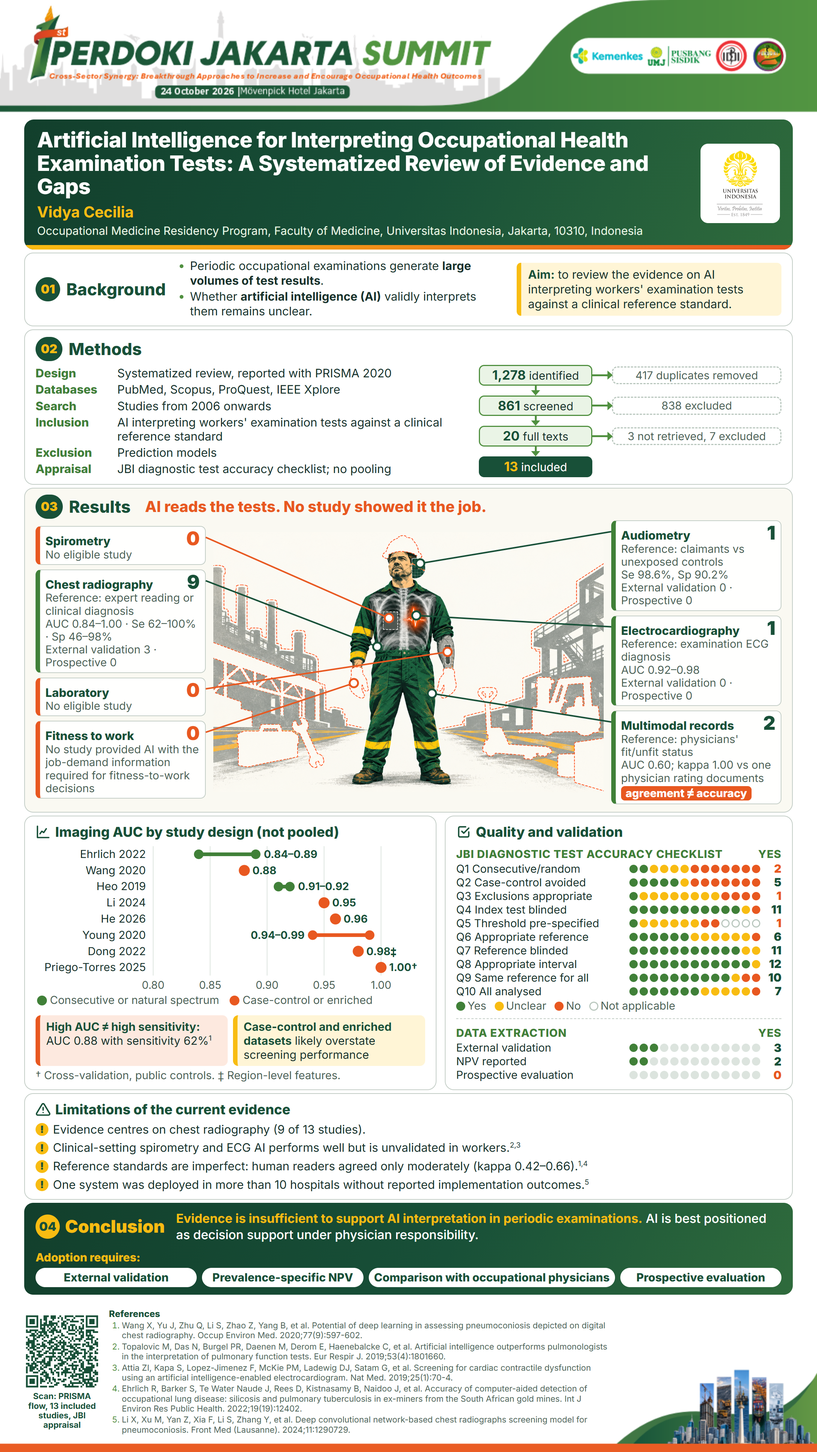
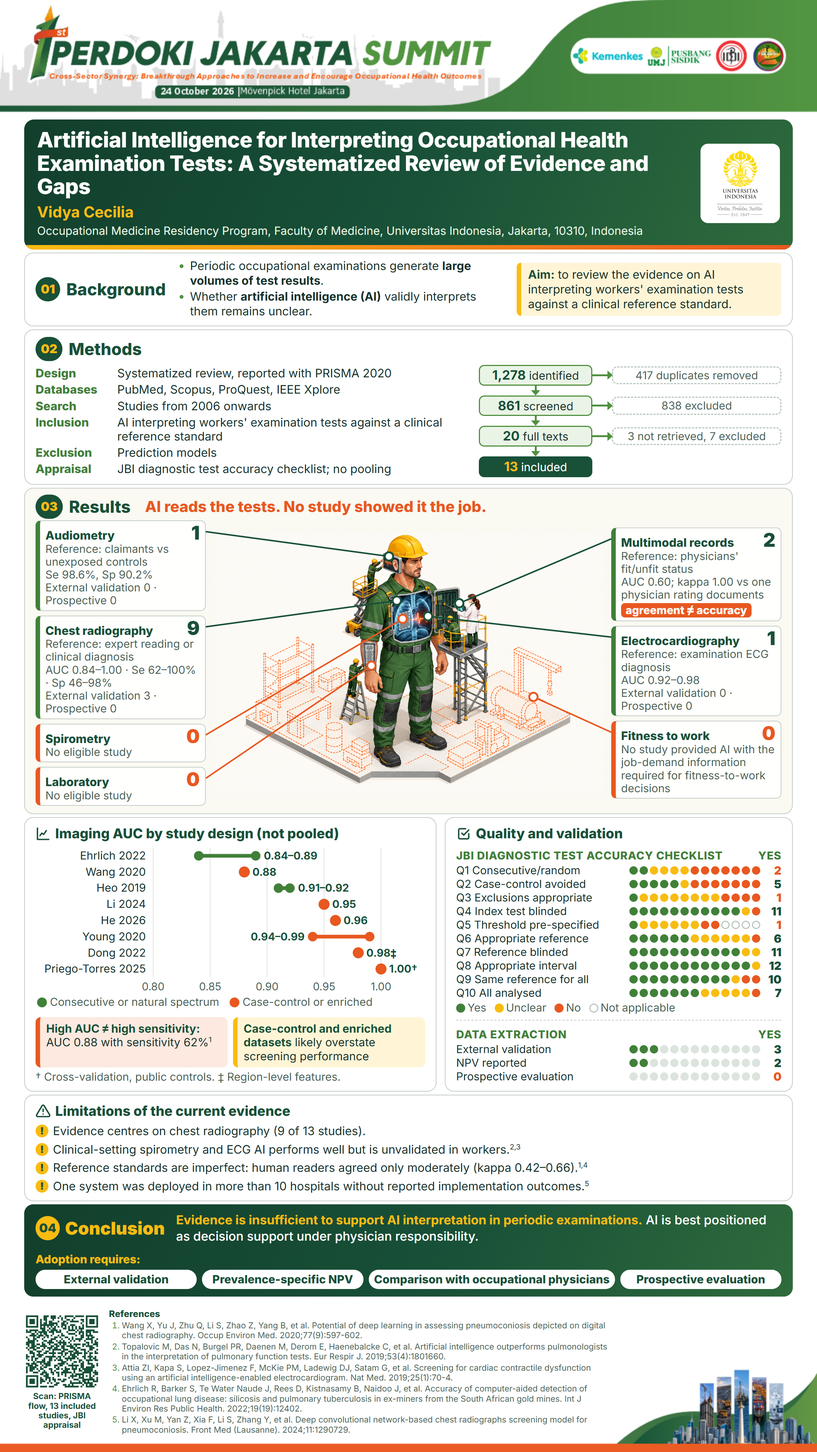
Redo alternative poster 1 with an isometric illustration and add poster 3 (museum exhibit)

Changed region(s): [[0.031, 0.3438, 0.9616, 0.9062], [0.9306, 0.3438, 0.9616, 0.375], [0.4653, 0.6562, 0.4963, 0.6875]]

diff --git a/Poster Jkt Summit eposter/poster_alt3.html b/Poster Jkt Summit eposter/poster_alt3.html
@@ -1,0 +1,353 @@
+<!doctype html>
+<html lang="en">
+<head>
+<meta charset="utf-8">
+<title>AI MCU E-Poster</title>
+<link href="https://fonts.googleapis.com/css2?family=Inter:wght@400;500;600;700;800;900&display=swap" rel="stylesheet">
+<style>
+  /* Canvas 2160 x 3840 px (9:16). 22 pt = 29.3 px; nothing below 29 px. */
+  :root{
+    --g900:#185038; --g700:#2F6B3C; --g600:#408038; --g500:#509040; --mint:#EAF4E6; --mint2:#D5EBCF;
+    --or:#E85820; --or-l:#FDE9DF; --ye:#F8BC12; --ye-l:#FFF5D6; --ink:#17302A; --muted:#4A5F55; --grey:#DCE4DE; --line:#C4CEC7;
+  }
+  *{box-sizing:border-box;margin:0;padding:0}
+  html,body{width:2160px;height:3840px}
+  body{font-family:Inter,Arial,sans-serif;color:var(--ink);font-size:32px;line-height:1.3}
+  .poster{width:2160px;height:3840px;position:relative;overflow:hidden;background:#fff url("assets/template.png") 0 0/2160px 3840px no-repeat}
+  sup{font-size:.62em;line-height:0}
+  b{font-weight:700}
+
+  .content{position:absolute;left:64px;right:64px;top:316px;height:3292px;display:flex;flex-direction:column;gap:8px}
+  .content>*{flex-shrink:0}
+
+  /* title */
+  .title{background:linear-gradient(115deg,#123F2C 0%,#185038 50%,#2F6B3C 100%);border-radius:26px;padding:24px 34px 30px;display:grid;grid-template-columns:1fr 210px;gap:30px;align-items:center;color:#fff;position:relative;overflow:hidden}
+  .title::after{content:"";position:absolute;left:0;right:0;bottom:0;height:12px;background:linear-gradient(90deg,var(--ye),var(--or))}
+  h1{font-size:56px;line-height:1.1;font-weight:800;letter-spacing:-.5px}
+  .authors{margin-top:10px;font-size:40px;font-weight:700;color:var(--ye)}
+  .affil{margin-top:4px;font-size:30px;color:#E6F3E2}
+  .logo-box{background:#fff;border-radius:20px;height:210px;display:flex;align-items:center;justify-content:center;padding:18px}
+  .logo-box img{max-width:100%;max-height:100%}
+
+  /* stats */
+  .stats{display:grid;grid-template-columns:repeat(4,1fr);gap:20px}
+  .stat{background:#fff;border-radius:22px;padding:12px 22px;border:2px solid var(--line);border-left:14px solid var(--g600);display:flex;align-items:center;gap:18px}
+  .stat .n{flex:none;font-size:80px;font-weight:900;color:var(--g900);line-height:1}
+  .stat .n small{font-size:.5em;font-weight:800;color:var(--g600)}
+  .stat .l{font-size:30px;color:var(--muted);line-height:1.15}
+  .stat.zero{border-left-color:var(--or)} .stat.zero .n{color:var(--or)}
+  .stat.ye{border-left-color:var(--ye)}
+
+  /* cards */
+  .card{background:#fff;border-radius:24px;padding:18px 28px;border:2px solid var(--line)}
+  .h{display:flex;align-items:center;gap:16px;font-size:44px;font-weight:800;color:var(--g900);margin-bottom:10px;line-height:1.05}
+  .h .no{display:inline-flex;align-items:center;justify-content:center;min-width:64px;height:64px;border-radius:32px;background:var(--g900);color:var(--ye);font-size:32px;font-weight:900;padding:0 14px}
+  .h2{font-size:36px;font-weight:800;color:var(--g900);margin-bottom:10px;display:flex;align-items:center;gap:12px}
+  .h2 svg{width:40px;height:40px;flex:none}
+  ul{padding-left:36px} li{margin-bottom:4px} li::marker{color:var(--g500)}
+  .row{display:grid;gap:22px}
+
+  /* background */
+  .bg{grid-template-columns:1fr 700px}
+  .aim{margin-top:10px;background:var(--ye-l);border-left:12px solid var(--ye);border-radius:12px;padding:12px 18px}
+  .aim b{color:var(--g900)}
+  .hero{border-radius:24px;overflow:hidden;background:#fff;border:2px solid var(--line);position:relative;min-height:340px}
+  .hero img{position:absolute;inset:0;width:100%;height:100%;object-fit:contain;display:block}
+
+  /* methods */
+  .meth{display:grid;grid-template-columns:1fr 800px;gap:30px;align-items:center}
+  .kv{display:grid;grid-template-columns:200px 1fr;gap:6px 16px;font-size:31px;line-height:1.2}
+  .kv dt{font-weight:800;color:var(--g600)}
+  /* PRISMA: main boxes in column 1, horizontal arrows in column 2, side boxes in column 3 */
+  .prisma{display:grid;grid-template-columns:300px 52px 448px;align-items:center;justify-content:center;font-size:30px}
+  .pb{grid-column:1;background:var(--mint);border:3px solid var(--g500);border-radius:14px;padding:4px 12px;text-align:center;line-height:1.2}
+  .pb b{font-size:34px;color:var(--g900)}
+  .pb.inc{background:var(--g900);border-color:var(--g900);color:#fff}.pb.inc b{color:var(--ye)}
+  .px{grid-column:3;background:#fff;border:3px dashed #B9C7BE;border-radius:14px;padding:4px 8px;font-size:29px;color:var(--muted);line-height:1.15;text-align:center}
+  .ha{grid-column:2;height:5px;background:var(--g500);position:relative;margin-right:12px}
+  .ha::after{content:"";position:absolute;right:-14px;top:-9.5px;border:12px solid transparent;border-left:14px solid var(--g500);border-right:0}
+  .va{grid-column:1;justify-self:center;width:5px;height:12px;background:var(--g500);position:relative;margin-bottom:14px}
+  .va::after{content:"";position:absolute;left:-9.5px;bottom:-14px;border:12px solid transparent;border-top:14px solid var(--g500);border-bottom:0}
+
+  /* gap map */
+  .gm{width:100%;table-layout:fixed;border-collapse:separate;border-spacing:0 6px;font-size:30px;line-height:1.2}
+  .gm th{font-size:29px;font-weight:800;color:#fff;background:var(--g900);padding:8px 10px;text-align:left}
+  .gm th:first-child{border-radius:12px 0 0 12px}.gm th:last-child{border-radius:0 12px 12px 0}
+  .gm td{background:var(--mint);padding:6px 10px;vertical-align:middle}
+  .gm td:first-child{border-radius:12px 0 0 12px;font-weight:700;color:var(--g900)}
+  .gm td:last-child{border-radius:0 12px 12px 0}
+  .gm .t{display:flex;align-items:center;gap:12px}
+  .gm .t svg{width:40px;height:40px;flex:none}
+  .gm .c{text-align:center;font-weight:800;font-size:36px;color:var(--g900)}
+  .gm .z{color:var(--or)}
+  .gm tr.gap td{background:var(--or-l)}
+  .gm tr.gap td.msg{color:#9A3A12;font-weight:600;font-style:italic}
+  .tag{display:inline-block;white-space:nowrap;background:var(--or);color:#fff;font-size:29px;font-weight:800;border-radius:10px;padding:2px 12px;margin-left:6px}
+
+  /* results row 2 */
+  .r2{grid-template-columns:1090px 1fr}
+  .callouts{display:grid;grid-template-columns:1fr 1fr;gap:14px;margin-top:8px}
+  .co{border-radius:14px;padding:12px 16px;font-size:30px;line-height:1.22}
+  .co.or{background:var(--or-l);border-left:12px solid var(--or)}
+  .co.ye{background:var(--ye-l);border-left:12px solid var(--ye)}
+  .co b{color:var(--g900)}
+  .legend{display:flex;gap:28px;font-size:29px;color:var(--muted);margin:4px 0 0 4px}
+  .legend i{display:inline-block;width:26px;height:26px;border-radius:13px;vertical-align:-4px;margin-right:8px}
+
+  .r2>.card{display:flex;flex-direction:column}
+  .r2 .callouts{margin-top:auto}
+  .dm{justify-content:space-between}
+  .dm .ext{margin-top:14px;padding-top:12px;border-top:2px dashed var(--line)}
+  .dm .grp{font-size:29px;font-weight:800;color:var(--g600);text-transform:uppercase;letter-spacing:1px;margin:6px 0 4px;display:flex;justify-content:space-between}
+  .dr{display:grid;grid-template-columns:1fr 346px 44px;align-items:center;gap:12px;margin-bottom:3px;font-size:29px;line-height:1.12}
+  .dots{display:grid;grid-template-columns:repeat(13,22px);gap:5px}
+  .dots span{width:22px;height:22px;border-radius:11px;background:var(--grey)}
+  .dots span.f,.dots span.y{background:var(--g600)} .dots span.o,.dots span.n{background:var(--or)}
+  .dots span.u{background:var(--ye)} .dots span.na{background:#fff;border:3px solid #B9C7BE}
+  .dr .v{font-weight:900;color:var(--g900);font-size:30px;line-height:1.1;text-align:right}
+  .dr .v.z{color:var(--or)}
+  .dm .note{font-size:29px;color:var(--muted);line-height:1.2}
+  .dm .key{display:flex;flex-wrap:wrap;gap:4px 22px;font-size:29px;color:var(--muted)}
+  .dm .key i{display:inline-block;width:24px;height:24px;border-radius:12px;vertical-align:-3px;margin-right:6px}
+
+  /* limitations */
+  .lim{display:flex;flex-direction:column;gap:10px;font-size:31px;line-height:1.25}
+  .lim div{display:grid;grid-template-columns:34px 1fr;gap:12px;align-items:center}
+  .lim div::before{content:"!";width:34px;height:34px;border-radius:17px;background:var(--ye);color:var(--g900);font-weight:900;font-size:26px;display:flex;align-items:center;justify-content:center}
+
+  /* conclusion */
+  .concl{background:linear-gradient(115deg,#123F2C 0%,#185038 55%,#2F6B3C 100%);color:#fff;border-radius:24px;padding:20px 30px;display:grid;grid-template-columns:auto 1fr;gap:20px 30px;align-items:center}
+  .concl .lab{font-size:46px;font-weight:900;color:var(--ye);line-height:1.05;display:flex;align-items:center;gap:14px}
+  .concl .lab .no{display:inline-flex;align-items:center;justify-content:center;width:64px;height:64px;border-radius:32px;background:var(--ye);color:var(--g900);font-size:32px}
+  .concl p{font-size:33px;line-height:1.3;font-weight:500}
+  .concl p b{color:var(--ye)}
+  .req{grid-column:1/-1;font-size:30px}
+  .req .k{font-weight:800;color:var(--ye);margin-bottom:8px}
+  .req .chips{display:flex;justify-content:space-between;gap:14px;flex-wrap:nowrap;white-space:nowrap}
+  .req span.c{flex:1;text-align:center;background:#fff;color:var(--g900);font-weight:800;border-radius:30px;padding:6px 14px}
+
+  /* references */
+  .refs{position:absolute;left:64px;top:3453px;width:1556px;height:350px;display:grid;grid-template-columns:200px 1fr;gap:24px;align-items:center}
+  .qrcol{display:flex;flex-direction:column;align-items:center;gap:6px}
+  .qrcap{font-size:22px;line-height:1.15;color:var(--g900);font-weight:700;text-align:center}
+  .qr{width:200px;height:200px;border:0;border-radius:14px;display:flex;align-items:center;justify-content:center;text-align:center;font-size:29px;color:var(--g600);font-weight:700;line-height:1.1;background:#fff}
+  .qr img{width:100%;height:100%}
+  .refs ol{font-size:22px;line-height:1.2;color:var(--muted);padding-left:34px}
+  .refs li{margin-bottom:3px;break-inside:avoid}
+  .refs .rh{font-size:24px;font-weight:800;color:var(--g900);margin-bottom:2px}
+
+  .bgalt{display:grid;grid-template-columns:auto 1fr 700px;gap:28px;align-items:center;padding:14px 28px}
+  .bgalt .h{margin:0}
+  .bgalt ul{font-size:31px;line-height:1.25}
+  .bgalt .aim{margin-top:0;font-size:31px;line-height:1.25}
+  .hero2{background:#FAF9F2;border:2px solid var(--line);border-radius:24px;padding:16px 28px 20px}
+  .hero2 .h{margin-bottom:4px}
+  .hero2 .kick{font-size:40px;font-weight:800;color:var(--or);margin-left:22px;line-height:1.1}
+  .hero2 .kick.solo{margin:0 0 8px 0}
+  .stage.grid{display:grid;align-items:center;gap:20px}
+  .stage.grid img{position:static;width:100%;height:auto}
+  .stage.grid .col{position:static;display:flex;flex-direction:column;justify-content:center;gap:12px}
+  .stage{position:relative}
+  .stage img{position:absolute;display:block}
+  .stage svg.lead{position:absolute;left:0;top:0;pointer-events:none;overflow:visible}
+  .stage .col{position:absolute;top:0;bottom:0;display:flex;flex-direction:column;justify-content:space-between}
+  .cl{position:relative;background:rgba(255,255,255,.95);border:2px solid var(--line);border-left:12px solid var(--g600);border-radius:14px;padding:6px 14px 8px;font-size:29px;line-height:1.18;color:var(--ink)}
+  .stage>.cl{position:absolute}
+  .cl.z{border-left-color:var(--or)}
+  .cl .t{display:flex;align-items:baseline;justify-content:space-between;gap:12px;font-weight:800;color:var(--g900);font-size:31px}
+  .cl .t .n{font-size:50px;font-weight:900;line-height:1;color:var(--g900)}
+  .cl.z .t .n{color:var(--or)}
+  .cl .m{color:var(--muted)}
+  .cl .tag{margin:4px 0 0}
+  .row2{display:grid;grid-template-columns:1fr 840px;gap:22px}
+  .row2 .dots{grid-template-columns:repeat(13,20px);gap:4px}
+  .row2 .dots span{width:20px;height:20px;border-radius:10px}
+  .row2 .dr{grid-template-columns:1fr 308px 40px}
+</style>
+</head>
+<body>
+<div class="poster">
+<div class="content">
+
+  <!-- TITLE -->
+  <section class="title">
+    <div>
+      <h1>Artificial Intelligence for Interpreting Occupational Health Examination Tests: A Systematized Review of Evidence and Gaps</h1>
+      <div class="authors">Vidya Cecilia</div>
+      <div class="affil">Occupational Medicine Residency Program, Faculty of Medicine, Universitas Indonesia, Jakarta, 10310, Indonesia</div>
+    </div>
+    <div class="logo-box"><img src="assets/Logo UI.png" alt="Universitas Indonesia"></div>
+  </section>
+
+  <!-- 01 BACKGROUND -->
+  <section class="card bgalt">
+    <div class="h"><span class="no">01</span>Background</div>
+    <ul>
+      <li>Periodic occupational examinations generate <b>large volumes of test results</b>.</li>
+      <li>Whether <b>artificial intelligence (AI)</b> validly interprets them remains unclear.</li>
+    </ul>
+    <div class="aim"><b>Aim:</b> to review the evidence on AI interpreting workers' examination tests against a clinical reference standard.</div>
+  </section>
+  <!-- 02 METHODS -->
+  <section class="card">
+    <div class="h"><span class="no">02</span>Methods</div>
+    <div class="meth">
+      <dl class="kv">
+        <dt>Design</dt><dd>Systematized review, reported with PRISMA 2020</dd>
+        <dt>Databases</dt><dd>PubMed, Scopus, ProQuest, IEEE Xplore</dd>
+        <dt>Search</dt><dd>Studies from 2006 onwards</dd>
+        <dt>Inclusion</dt><dd>AI interpreting workers' examination tests against a clinical reference standard</dd>
+        <dt>Exclusion</dt><dd>Prediction models</dd>
+        <dt>Appraisal</dt><dd>JBI diagnostic test accuracy checklist; no pooling</dd>
+      </dl>
+      <div class="prisma">
+        <div class="pb"><b>1,278</b> identified</div><div class="ha"></div><div class="px">417 duplicates removed</div>
+        <div class="va"></div>
+        <div class="pb"><b>861</b> screened</div><div class="ha"></div><div class="px">838 excluded</div>
+        <div class="va"></div>
+        <div class="pb"><b>20</b> full texts</div><div class="ha"></div><div class="px">3 not retrieved, 7 excluded</div>
+        <div class="va"></div>
+        <div class="pb inc"><b>13</b> included</div>
+      </div>
+    </div>
+  </section>
+
+  <section class="hero2"><div class="h"><span class="no">03</span>Results<span class="kick">Admired behind glass: 0 of 13 evaluated prospectively.</span></div>
+    <div class="stage grid" style="width:1972px;grid-template-columns:450px 1fr 450px"><div class="col"><div class="cl" data-ax="43" data-ay="24"><div class="t"><span>Chest radiography</span><span class="n">9</span></div><div class="m">Reference: expert reading or clinical diagnosis</div><div class="m">AUC 0.84–1.00 · Se 62–100% · Sp 46–98%</div><div class="m">External validation 3 · Prospective 0</div></div><div class="cl z" data-ax="22" data-ay="55"><div class="t"><span>Fitness to work</span><span class="n">0</span></div><div class="m">No study provided AI with the job-demand information required for fitness-to-work decisions</div></div><div class="cl" data-ax="37" data-ay="62"><div class="t"><span>Multimodal records</span><span class="n">2</span></div><div class="m">Reference: physicians' fit/unfit status</div><div class="m">AUC 0.60; kappa 1.00 vs one physician rating documents</div><div class="m"><span class="tag">agreement ≠ accuracy</span></div></div></div><img src="assets/alt3_museum.png" alt=""><svg class="lead"></svg><div class="col"><div class="cl" data-ax="89" data-ay="26"><div class="t"><span>Audiometry</span><span class="n">1</span></div><div class="m">Reference: claimants vs unexposed controls</div><div class="m">Se 98.6%, Sp 90.2%</div><div class="m">External validation 0 · Prospective 0</div></div><div class="cl" data-ax="89" data-ay="39"><div class="t"><span>Electrocardiography</span><span class="n">1</span></div><div class="m">Reference: examination ECG diagnosis</div><div class="m">AUC 0.92–0.98</div><div class="m">External validation 0 · Prospective 0</div></div><div class="cl z" data-ax="87" data-ay="50"><div class="t"><span>Spirometry, laboratory</span><span class="n">0</span></div><div class="m">No eligible study: an empty pedestal</div></div></div></div>
+  </section>
+  <section class="row r2">
+    <div class="card">
+      <div class="h2"><svg viewBox="0 0 24 24" fill="none" stroke="#185038" stroke-width="2.2" stroke-linecap="round" stroke-linejoin="round"><path d="M3 3v18h18M7 15l3-4 3 2 4-6"/></svg>Imaging AUC by study design (not pooled)</div>
+      <svg viewBox="0 0 1060 400" width="100%" font-family="Inter,Arial,sans-serif">
+<g stroke="#DCE4DE" stroke-width="2">
+<line x1="320" y1="4" x2="320" y2="356"/>
+<line x1="475" y1="4" x2="475" y2="356"/>
+<line x1="630" y1="4" x2="630" y2="356"/>
+<line x1="785" y1="4" x2="785" y2="356"/>
+<line x1="940" y1="4" x2="940" y2="356"/>
+</g><g font-size="29" fill="#4A5F55" text-anchor="middle">
+<text x="320" y="392">0.80</text>
+<text x="475" y="392">0.85</text>
+<text x="630" y="392">0.90</text>
+<text x="785" y="392">0.95</text>
+<text x="940" y="392">1.00</text>
+</g>
+<text x="300" y="36" font-size="30" fill="#17302A" text-anchor="end">Ehrlich 2022</text>
+<line x1="444" y1="26" x2="599" y2="26" stroke="#408038" stroke-width="10" stroke-linecap="round"/><circle cx="444" cy="26" r="13" fill="#408038"/><circle cx="599" cy="26" r="13" fill="#408038"/>
+<text x="621" y="36" font-size="29" font-weight="700" fill="#185038" text-anchor="start">0.84–0.89</text>
+<text x="300" y="80" font-size="30" fill="#17302A" text-anchor="end">Wang 2020</text>
+<circle cx="568" cy="70" r="15" fill="#E85820"/>
+<text x="590" y="80" font-size="29" font-weight="700" fill="#185038" text-anchor="start">0.88</text>
+<text x="300" y="124" font-size="30" fill="#17302A" text-anchor="end">Heo 2019</text>
+<line x1="661" y1="114" x2="692" y2="114" stroke="#408038" stroke-width="10" stroke-linecap="round"/><circle cx="661" cy="114" r="13" fill="#408038"/><circle cx="692" cy="114" r="13" fill="#408038"/>
+<text x="714" y="124" font-size="29" font-weight="700" fill="#185038" text-anchor="start">0.91–0.92</text>
+<text x="300" y="168" font-size="30" fill="#17302A" text-anchor="end">Li 2024</text>
+<circle cx="785" cy="158" r="15" fill="#E85820"/>
+<text x="807" y="168" font-size="29" font-weight="700" fill="#185038" text-anchor="start">0.95</text>
+<text x="300" y="212" font-size="30" fill="#17302A" text-anchor="end">He 2026</text>
+<circle cx="816" cy="202" r="15" fill="#E85820"/>
+<text x="838" y="212" font-size="29" font-weight="700" fill="#185038" text-anchor="start">0.96</text>
+<text x="300" y="256" font-size="30" fill="#17302A" text-anchor="end">Young 2020</text>
+<line x1="754" y1="246" x2="909" y2="246" stroke="#E85820" stroke-width="10" stroke-linecap="round"/><circle cx="754" cy="246" r="13" fill="#E85820"/><circle cx="909" cy="246" r="13" fill="#E85820"/>
+<text x="732" y="256" font-size="29" font-weight="700" fill="#185038" text-anchor="end">0.94–0.99</text>
+<text x="300" y="300" font-size="30" fill="#17302A" text-anchor="end">Dong 2022</text>
+<circle cx="878" cy="290" r="15" fill="#E85820"/>
+<text x="900" y="300" font-size="29" font-weight="700" fill="#185038" text-anchor="start">0.98‡</text>
+<text x="300" y="344" font-size="30" fill="#17302A" text-anchor="end">Priego-Torres 2025</text>
+<circle cx="940" cy="334" r="15" fill="#E85820"/>
+<text x="962" y="344" font-size="29" font-weight="700" fill="#185038" text-anchor="start">1.00†</text>
+</svg>
+      <div class="legend"><span><i style="background:#408038"></i>Consecutive or natural spectrum</span><span><i style="background:#E85820"></i>Case-control or enriched</span></div>
+      <div class="callouts">
+        <div class="co or"><b>High AUC ≠ high sensitivity:</b> AUC 0.88 with sensitivity 62%<sup>1</sup></div>
+        <div class="co ye"><b>Case-control and enriched datasets</b> likely overstate screening performance</div>
+      </div>
+      <div class="note" style="font-size:29px;color:#4A5F55;margin-top:6px">† Cross-validation, public controls. ‡ Region-level features.</div>
+    </div>
+
+    <div class="card dm">
+      <div class="h2"><svg viewBox="0 0 24 24" fill="none" stroke="#185038" stroke-width="2.2" stroke-linecap="round" stroke-linejoin="round"><path d="M9 11l3 3 8-8M20 12v6a2 2 0 0 1-2 2H6a2 2 0 0 1-2-2V6a2 2 0 0 1 2-2h9"/></svg>Quality and validation</div>
+      <div>
+      <div class="grp"><span>JBI diagnostic test accuracy checklist</span><span>Yes</span></div>
+      <div class="dr"><span>Q1 Consecutive/random</span><div class="dots"><span class="y"></span><span class="y"></span><span class="u"></span><span class="u"></span><span class="u"></span><span class="u"></span><span class="n"></span><span class="n"></span><span class="n"></span><span class="n"></span><span class="n"></span><span class="n"></span><span class="n"></span></div><span class="v z">2</span></div>
+      <div class="dr"><span>Q2 Case-control avoided</span><div class="dots"><span class="y"></span><span class="y"></span><span class="y"></span><span class="y"></span><span class="y"></span><span class="u"></span><span class="n"></span><span class="n"></span><span class="n"></span><span class="n"></span><span class="n"></span><span class="n"></span><span class="n"></span></div><span class="v">5</span></div>
+      <div class="dr"><span>Q3 Exclusions appropriate</span><div class="dots"><span class="y"></span><span class="u"></span><span class="u"></span><span class="u"></span><span class="u"></span><span class="u"></span><span class="u"></span><span class="u"></span><span class="u"></span><span class="n"></span><span class="n"></span><span class="n"></span><span class="n"></span></div><span class="v z">1</span></div>
+      <div class="dr"><span>Q4 Index test blinded</span><div class="dots"><span class="y"></span><span class="y"></span><span class="y"></span><span class="y"></span><span class="y"></span><span class="y"></span><span class="y"></span><span class="y"></span><span class="y"></span><span class="y"></span><span class="y"></span><span class="u"></span><span class="n"></span></div><span class="v">11</span></div>
+      <div class="dr"><span>Q5 Threshold pre-specified</span><div class="dots"><span class="y"></span><span class="u"></span><span class="u"></span><span class="u"></span><span class="u"></span><span class="u"></span><span class="u"></span><span class="n"></span><span class="n"></span><span class="na"></span><span class="na"></span><span class="na"></span><span class="na"></span></div><span class="v z">1</span></div>
+      <div class="dr"><span>Q6 Appropriate reference</span><div class="dots"><span class="y"></span><span class="y"></span><span class="y"></span><span class="y"></span><span class="y"></span><span class="y"></span><span class="u"></span><span class="u"></span><span class="u"></span><span class="u"></span><span class="u"></span><span class="u"></span><span class="n"></span></div><span class="v">6</span></div>
+      <div class="dr"><span>Q7 Reference blinded</span><div class="dots"><span class="y"></span><span class="y"></span><span class="y"></span><span class="y"></span><span class="y"></span><span class="y"></span><span class="y"></span><span class="y"></span><span class="y"></span><span class="y"></span><span class="y"></span><span class="u"></span><span class="u"></span></div><span class="v">11</span></div>
+      <div class="dr"><span>Q8 Appropriate interval</span><div class="dots"><span class="y"></span><span class="y"></span><span class="y"></span><span class="y"></span><span class="y"></span><span class="y"></span><span class="y"></span><span class="y"></span><span class="y"></span><span class="y"></span><span class="y"></span><span class="y"></span><span class="u"></span></div><span class="v">12</span></div>
+      <div class="dr"><span>Q9 Same reference for all</span><div class="dots"><span class="y"></span><span class="y"></span><span class="y"></span><span class="y"></span><span class="y"></span><span class="y"></span><span class="y"></span><span class="y"></span><span class="y"></span><span class="y"></span><span class="u"></span><span class="n"></span><span class="n"></span></div><span class="v">10</span></div>
+      <div class="dr"><span>Q10 All analysed</span><div class="dots"><span class="y"></span><span class="y"></span><span class="y"></span><span class="y"></span><span class="y"></span><span class="y"></span><span class="y"></span><span class="u"></span><span class="u"></span><span class="u"></span><span class="u"></span><span class="u"></span><span class="n"></span></div><span class="v">7</span></div>
+      <div class="key"><span><i style="background:#408038"></i>Yes</span><span><i style="background:#F8BC12"></i>Unclear</span><span><i style="background:#E85820"></i>No</span><span><i style="background:#fff;border:3px solid #B9C7BE"></i>Not applicable</span></div>
+      </div>
+      <div class="ext">
+      <div class="grp"><span>Data extraction</span><span>Yes</span></div>
+      <div class="dr"><span>External validation</span><div class="dots"><span class="f"></span><span class="f"></span><span class="f"></span><span></span><span></span><span></span><span></span><span></span><span></span><span></span><span></span><span></span><span></span></div><span class="v">3</span></div>
+      <div class="dr"><span>NPV reported</span><div class="dots"><span class="f"></span><span class="f"></span><span></span><span></span><span></span><span></span><span></span><span></span><span></span><span></span><span></span><span></span><span></span></div><span class="v">2</span></div>
+      <div class="dr"><span>Prospective evaluation</span><div class="dots"><span></span><span></span><span></span><span></span><span></span><span></span><span></span><span></span><span></span><span></span><span></span><span></span><span></span></div><span class="v z">0</span></div>
+      </div>
+    </div>
+  </section>
+
+  <!-- LIMITATIONS OF THE EVIDENCE -->
+  <section class="card">
+    <div class="h2"><svg viewBox="0 0 24 24" fill="none" stroke="#185038" stroke-width="2.2" stroke-linecap="round" stroke-linejoin="round"><path d="M12 9v4M12 17h.01M10.3 3.9 1.8 18a2 2 0 0 0 1.7 3h17a2 2 0 0 0 1.7-3L13.7 3.9a2 2 0 0 0-3.4 0z"/></svg>Limitations of the current evidence</div>
+    <div class="lim">
+      <div><span>Evidence centres on chest radiography (9 of 13 studies).</span></div>
+      <div><span>Clinical-setting spirometry and ECG AI performs well but is unvalidated in workers.<sup>2,3</sup></span></div>
+      <div><span>Reference standards are imperfect: human readers agreed only moderately (kappa 0.42–0.66).<sup>1,4</sup></span></div>
+      <div><span>One system was deployed in more than 10 hospitals without reported implementation outcomes.<sup>5</sup></span></div>
+    </div>
+  </section>
+
+  <!-- 04 CONCLUSION -->
+  <section class="concl">
+    <div class="lab"><span class="no">04</span>Conclusion</div>
+    <p><b>Evidence is insufficient to support AI interpretation in periodic examinations.</b> AI is best positioned as decision support under physician responsibility.</p>
+    <div class="req"><div class="k">Adoption requires:</div><div class="chips"><span class="c">External validation</span><span class="c">Prevalence-specific NPV</span><span class="c">Comparison with occupational physicians</span><span class="c">Prospective evaluation</span></div></div>
+  </section>
+
+</div>
+
+<!-- REFERENCES -->
+<div class="refs">
+  <div class="qrcol"><div class="qr"><img src="assets/qr.png" alt="" onerror="this.replaceWith(document.createTextNode('QR: 13 included studies'))"></div><div class="qrcap">Scan: PRISMA flow, 13 included studies, JBI appraisal</div></div>
+  <div>
+    <div class="rh">References</div>
+    <ol>
+      <li>Wang X, Yu J, Zhu Q, Li S, Zhao Z, Yang B, et al. Potential of deep learning in assessing pneumoconiosis depicted on digital chest radiography. Occup Environ Med. 2020;77(9):597-602.</li>
+      <li>Topalovic M, Das N, Burgel PR, Daenen M, Derom E, Haenebalcke C, et al. Artificial intelligence outperforms pulmonologists in the interpretation of pulmonary function tests. Eur Respir J. 2019;53(4):1801660.</li>
+      <li>Attia ZI, Kapa S, Lopez-Jimenez F, McKie PM, Ladewig DJ, Satam G, et al. Screening for cardiac contractile dysfunction using an artificial intelligence-enabled electrocardiogram. Nat Med. 2019;25(1):70-4.</li>
+      <li>Ehrlich R, Barker S, Te Water Naude J, Rees D, Kistnasamy B, Naidoo J, et al. Accuracy of computer-aided detection of occupational lung disease: silicosis and pulmonary tuberculosis in ex-miners from the South African gold mines. Int J Environ Res Public Health. 2022;19(19):12402.</li>
+      <li>Li X, Xu M, Yan Z, Xia F, Li S, Zhang Y, et al. Deep convolutional network-based chest radiographs screening model for pneumoconiosis. Front Med (Lausanne). 2024;11:1290729.</li>
+    </ol>
+  </div>
+</div>
+
+</div>
+
+<script>
+function drawLeaders(){
+  for (const st of document.querySelectorAll('.stage')) {
+    const sr = st.getBoundingClientRect(), img = st.querySelector('img').getBoundingClientRect();
+    const svg = st.querySelector('svg.lead'); svg.setAttribute('width', sr.width); svg.setAttribute('height', sr.height);
+    let out = '';
+    for (const c of st.querySelectorAll('.cl')) {
+      const r = c.getBoundingClientRect();
+      const ax = img.left - sr.left + img.width * c.dataset.ax / 100, ay = img.top - sr.top + img.height * c.dataset.ay / 100;
+      const L = r.left - sr.left, R = r.right - sr.left, T = r.top - sr.top, B = r.bottom - sr.top;
+      let sx, sy;
+      if (ax > R) { sx = R; sy = T + 30; } else if (ax < L) { sx = L; sy = T + 30; }
+      else { sx = Math.min(Math.max(ax, L + 40), R - 40); sy = ay < T ? T : B; }
+      const col = c.classList.contains('z') ? '#E85820' : '#185038';
+      out += `<line x1="${sx}" y1="${sy}" x2="${ax}" y2="${ay}" stroke="${col}" stroke-width="4"/>` +
+             `<circle cx="${ax}" cy="${ay}" r="11" fill="#fff" stroke="${col}" stroke-width="5"/>`;
+    }
+    svg.innerHTML = out;
+  }
+}
+document.fonts.ready.then(drawLeaders);
+</script>
+</body>
+</html>

diff --git a/Poster Jkt Summit eposter/poster_alt1.html b/Poster Jkt Summit eposter/poster_alt1.html
@@ -213,7 +213,7 @@
   </section>
 
   <section class="hero2"><div class="h"><span class="no">03</span>Results<span class="kick">AI reads the tests. No study showed it the job.</span></div>
-    <div class="stage grid" style="width:1972px;grid-template-columns:450px 1fr 450px"><div class="col"><div class="cl z" data-ax="45" data-ay="33"><div class="t"><span>Spirometry</span><span class="n">0</span></div><div class="m">No eligible study</div></div><div class="cl" data-ax="42" data-ay="44"><div class="t"><span>Chest radiography</span><span class="n">9</span></div><div class="m">Reference: expert reading or clinical diagnosis</div><div class="m">AUC 0.84–1.00 · Se 62–100% · Sp 46–98%</div><div class="m">External validation 3 · Prospective 0</div></div><div class="cl z" data-ax="60" data-ay="46"><div class="t"><span>Laboratory</span><span class="n">0</span></div><div class="m">No eligible study</div></div><div class="cl z" data-ax="36" data-ay="58"><div class="t"><span>Fitness to work</span><span class="n">0</span></div><div class="m">No study provided AI with the job-demand information required for fitness-to-work decisions</div></div></div><img src="assets/alt1_worker.png" alt=""><svg class="lead"></svg><div class="col"><div class="cl" data-ax="53" data-ay="12"><div class="t"><span>Audiometry</span><span class="n">1</span></div><div class="m">Reference: claimants vs unexposed controls</div><div class="m">Se 98.6%, Sp 90.2%</div><div class="m">External validation 0 · Prospective 0</div></div><div class="cl" data-ax="52" data-ay="32"><div class="t"><span>Electrocardiography</span><span class="n">1</span></div><div class="m">Reference: examination ECG diagnosis</div><div class="m">AUC 0.92–0.98</div><div class="m">External validation 0 · Prospective 0</div></div><div class="cl" data-ax="56" data-ay="62"><div class="t"><span>Multimodal records</span><span class="n">2</span></div><div class="m">Reference: physicians' fit/unfit status</div><div class="m">AUC 0.60; kappa 1.00 vs one physician rating documents</div><div class="m"><span class="tag">agreement ≠ accuracy</span></div></div></div></div>
+    <div class="stage grid" style="width:1972px;grid-template-columns:450px 1fr 450px"><div class="col"><div class="cl" data-ax="45" data-ay="9"><div class="t"><span>Audiometry</span><span class="n">1</span></div><div class="m">Reference: claimants vs unexposed controls</div><div class="m">Se 98.6%, Sp 90.2%</div><div class="m">External validation 0 · Prospective 0</div></div><div class="cl" data-ax="47" data-ay="26"><div class="t"><span>Chest radiography</span><span class="n">9</span></div><div class="m">Reference: expert reading or clinical diagnosis</div><div class="m">AUC 0.84–1.00 · Se 62–100% · Sp 46–98%</div><div class="m">External validation 3 · Prospective 0</div></div><div class="cl z" data-ax="48.5" data-ay="33"><div class="t"><span>Spirometry</span><span class="n">0</span></div><div class="m">No eligible study</div></div><div class="cl z" data-ax="40.5" data-ay="51"><div class="t"><span>Laboratory</span><span class="n">0</span></div><div class="m">No eligible study</div></div></div><img src="assets/alt1b_worker_iso.png" alt=""><svg class="lead"></svg><div class="col"><div class="cl" data-ax="63" data-ay="27"><div class="t"><span>Multimodal records</span><span class="n">2</span></div><div class="m">Reference: physicians' fit/unfit status</div><div class="m">AUC 0.60; kappa 1.00 vs one physician rating documents</div><div class="m"><span class="tag">agreement ≠ accuracy</span></div></div><div class="cl" data-ax="55" data-ay="32"><div class="t"><span>Electrocardiography</span><span class="n">1</span></div><div class="m">Reference: examination ECG diagnosis</div><div class="m">AUC 0.92–0.98</div><div class="m">External validation 0 · Prospective 0</div></div><div class="cl z" data-ax="82" data-ay="63"><div class="t"><span>Fitness to work</span><span class="n">0</span></div><div class="m">No study provided AI with the job-demand information required for fitness-to-work decisions</div></div></div></div>
   </section>
   <section class="row r2">
     <div class="card">

diff --git a/Poster Jkt Summit eposter/build_alt.py b/Poster Jkt Summit eposter/build_alt.py
@@ -147,11 +147,18 @@ FTW = dict(name="Fitness to work", n="0", zero=True,
 
 VARIANTS = {
     "alt1": dict(
-        img="alt1_worker.png", kick="AI reads the tests. No study showed it the job.",
+        img="alt1b_worker_iso.png", kick="AI reads the tests. No study showed it the job.",
         mode="grid", col_w=450,
-        left=[{**SPIRO, "ax": 45, "ay": 33}, {**CHEST, "ax": 42, "ay": 44},
-              {**LAB, "ax": 60, "ay": 46}, {**FTW, "ax": 36, "ay": 58}],
-        right=[{**AUDIO, "ax": 53, "ay": 12}, {**ECG, "ax": 52, "ay": 32}, {**MULTI, "ax": 56, "ay": 62}]),
+        left=[{**AUDIO, "ax": 45, "ay": 9}, {**CHEST, "ax": 47, "ay": 26},
+              {**SPIRO, "ax": 48.5, "ay": 33}, {**LAB, "ax": 40.5, "ay": 51}],
+        right=[{**MULTI, "ax": 63, "ay": 27}, {**ECG, "ax": 55, "ay": 32}, {**FTW, "ax": 82, "ay": 63}]),
+    "alt3": dict(
+        img="alt3_museum.png", kick="Admired behind glass: 0 of 13 evaluated prospectively.",
+        mode="grid", col_w=450,
+        left=[{**CHEST, "ax": 43, "ay": 24}, {**FTW, "ax": 22, "ay": 55}, {**MULTI, "ax": 37, "ay": 62}],
+        right=[{**AUDIO, "ax": 89, "ay": 26}, {**ECG, "ax": 89, "ay": 39},
+               dict(name="Spirometry, laboratory", n="0", zero=True, ax=87, ay=50,
+                    lines=["No eligible study: an empty pedestal"])]),
     "alt6": dict(
         img="alt6_factory.png", kick="One busy station, two closed ones, and no view of the workplace.",
         img_w=1140, img_x=480, col_w=450, stage_h=760,
